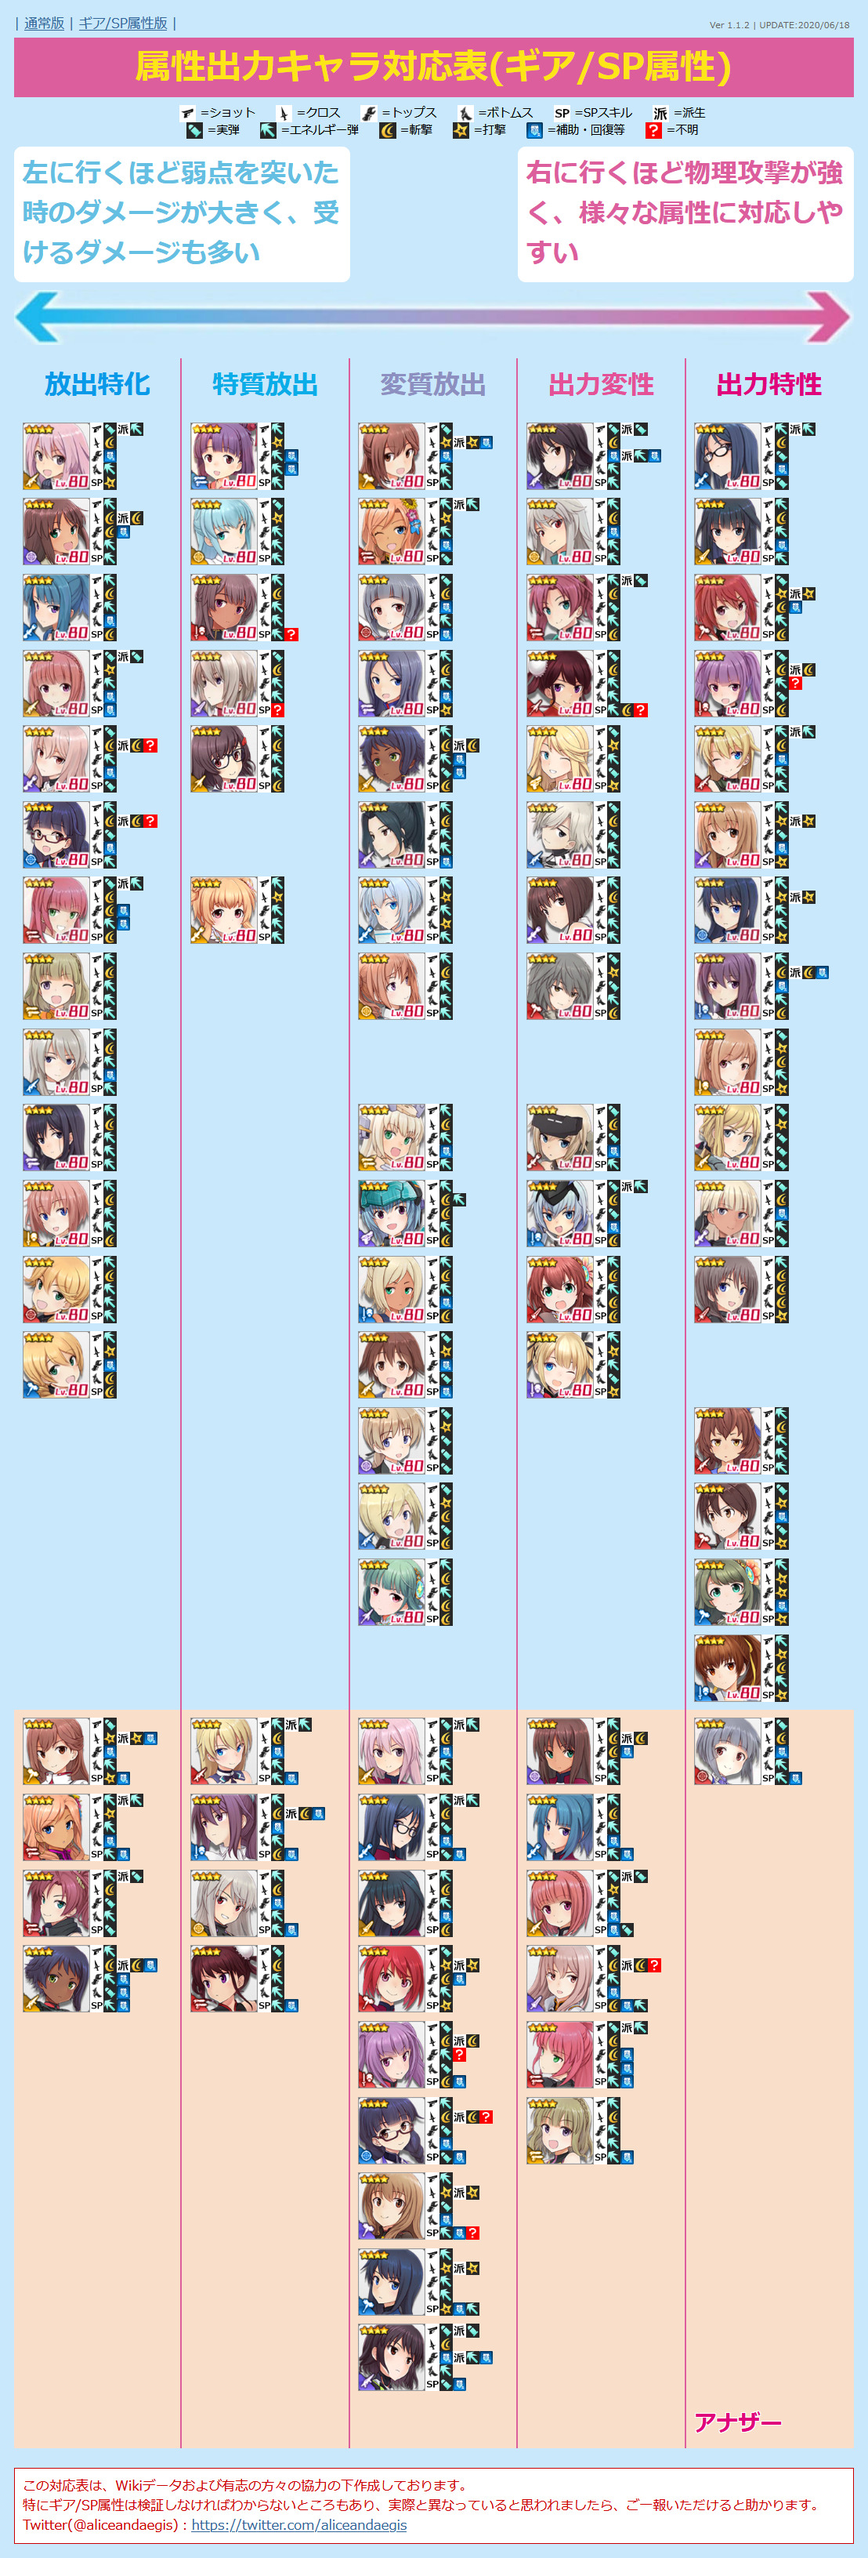
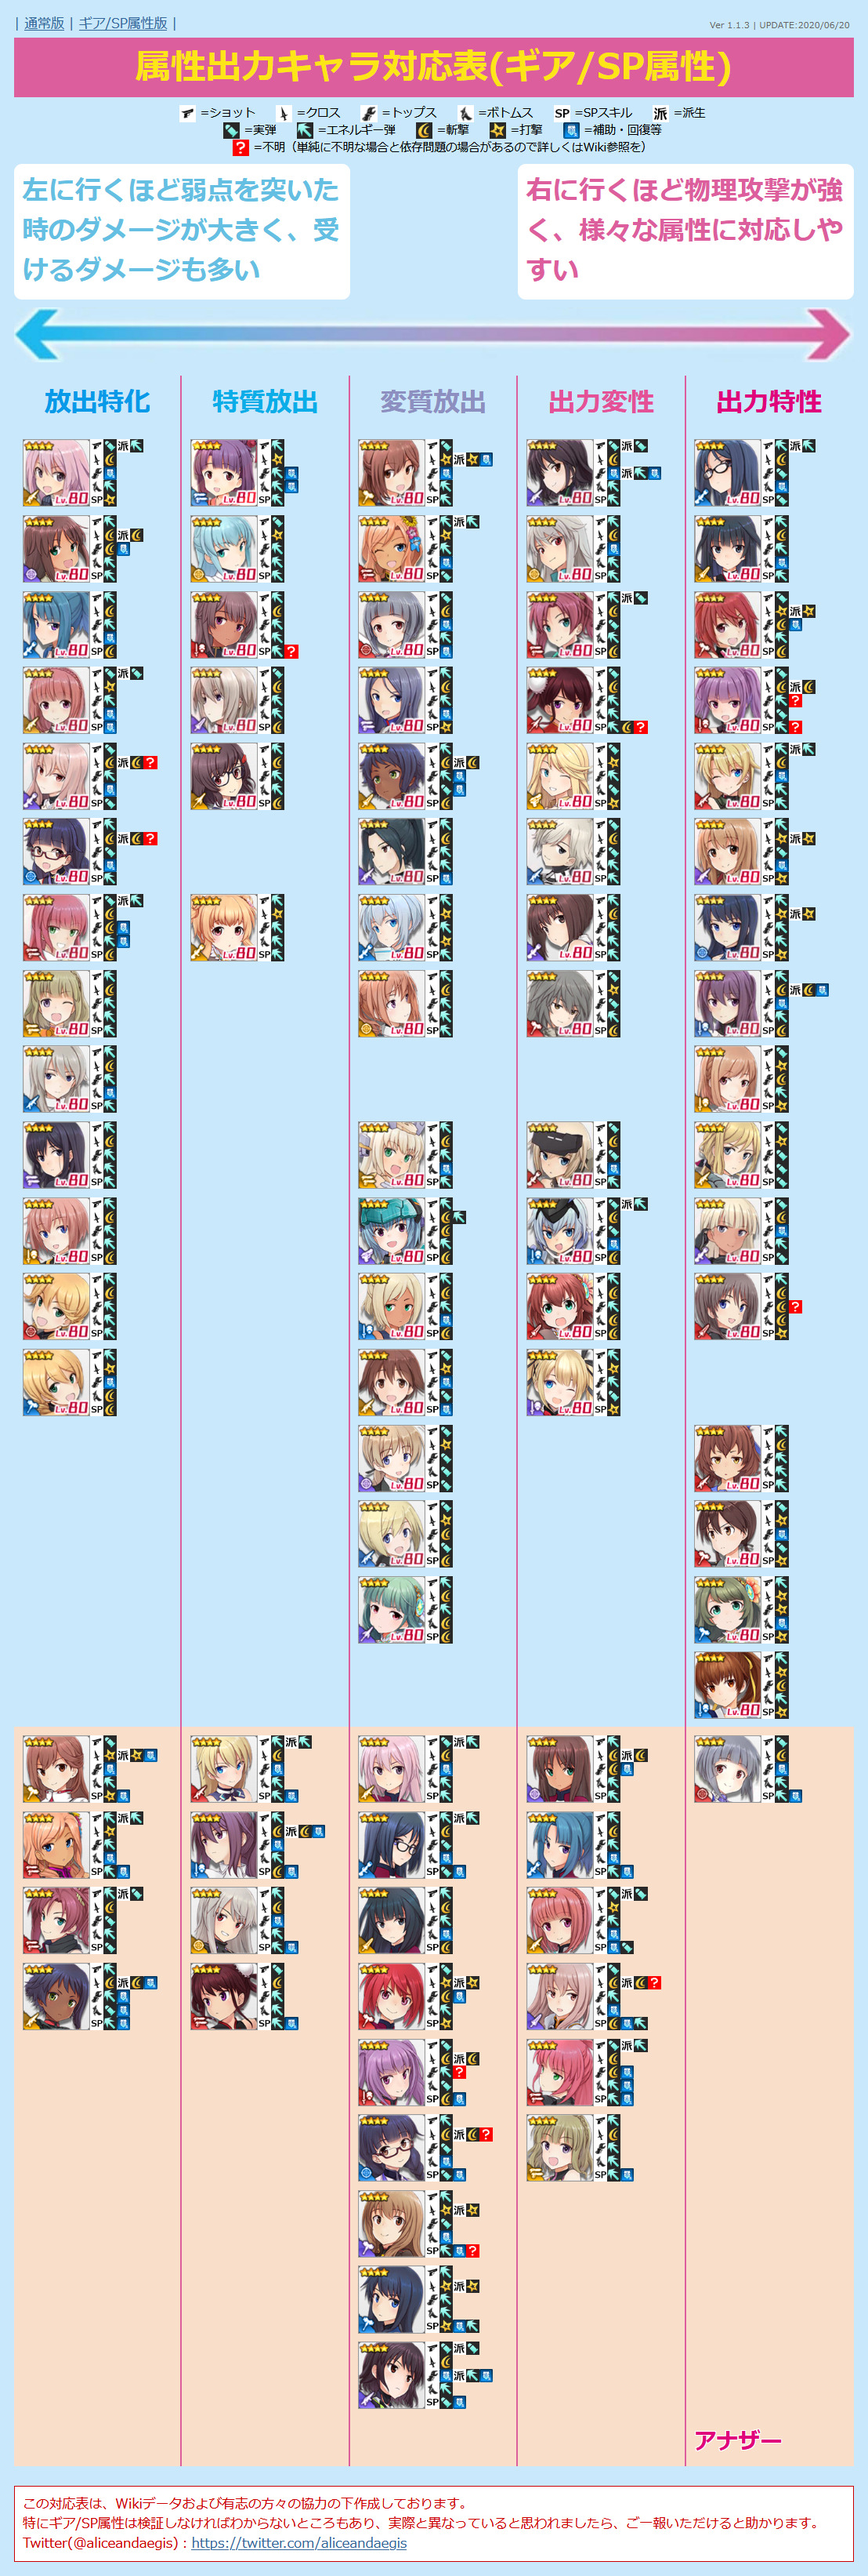
UPDATE chara data
未羅SPを斬撃に修正
悠都トップスを斬撃と？付に修正（射撃依存の為）
綾香SPをエネ弾と？付に修正（クロス依存の為）

diff --git a/alice.html b/alice.html
@@ -253,7 +253,7 @@
       "equip2": "3/3",
       "equip3": "2?",
       "equip4": "1",
-      "sp": "3",
+      "sp": "2?",
       "attr": "3",
       "link": "https://wikiwiki.jp/alicegear/%E4%B8%80%E6%9D%A1%E7%B6%BE%E9%A6%99",
       "category": ""
@@ -982,7 +982,7 @@
       "equip2": "3",
       "equip3": "2",
       "equip4": "2",
-      "sp": "?",
+      "sp": "3",
       "attr": "2",
       "link": "https://wikiwiki.jp/alicegear/%E6%9D%91%E5%B0%BE%E6%9C%AA%E7%BE%85",
       "category": ""
@@ -1022,7 +1022,7 @@
       "name": "九炉鉄 悠都",
       "equip1": "2",
       "equip2": "3",
-      "equip3": "3",
+      "equip3": "3?",
       "equip4": "3",
       "sp": "4",
       "attr": "3",
@@ -1284,7 +1284,8 @@
     <img src="./img/icon/melee-2.png"><span>=斬撃</span>
     <img src="./img/icon/melee-1.png"><span>=打撃</span>
     <img src="./img/icon/skill-1.png"><span>=補助・回復等</span>
-    <img src="./img/icon/hatena.png"><span>=不明</span>
+    <br />
+    <img src="./img/icon/hatena.png"><span>=不明（単純に不明な場合と依存問題の場合があるので詳しくはWiki参照を）</span>
   </div>
 
   <ul id="hosoku">
